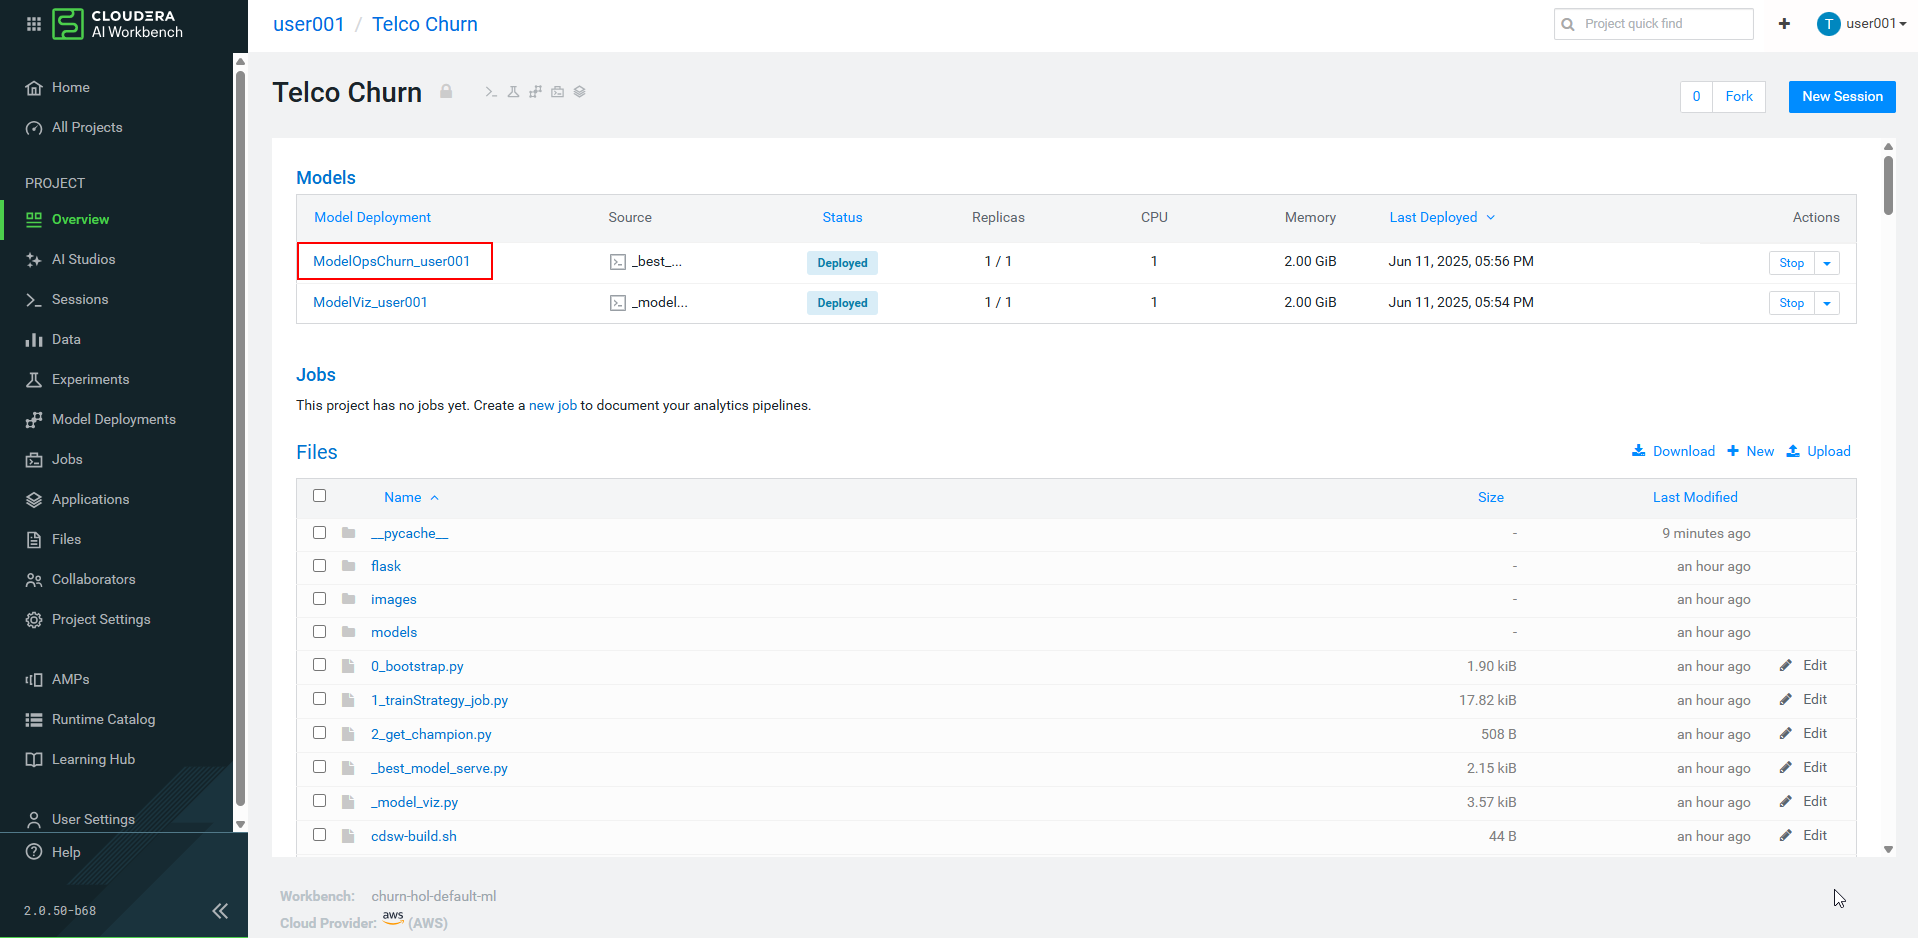
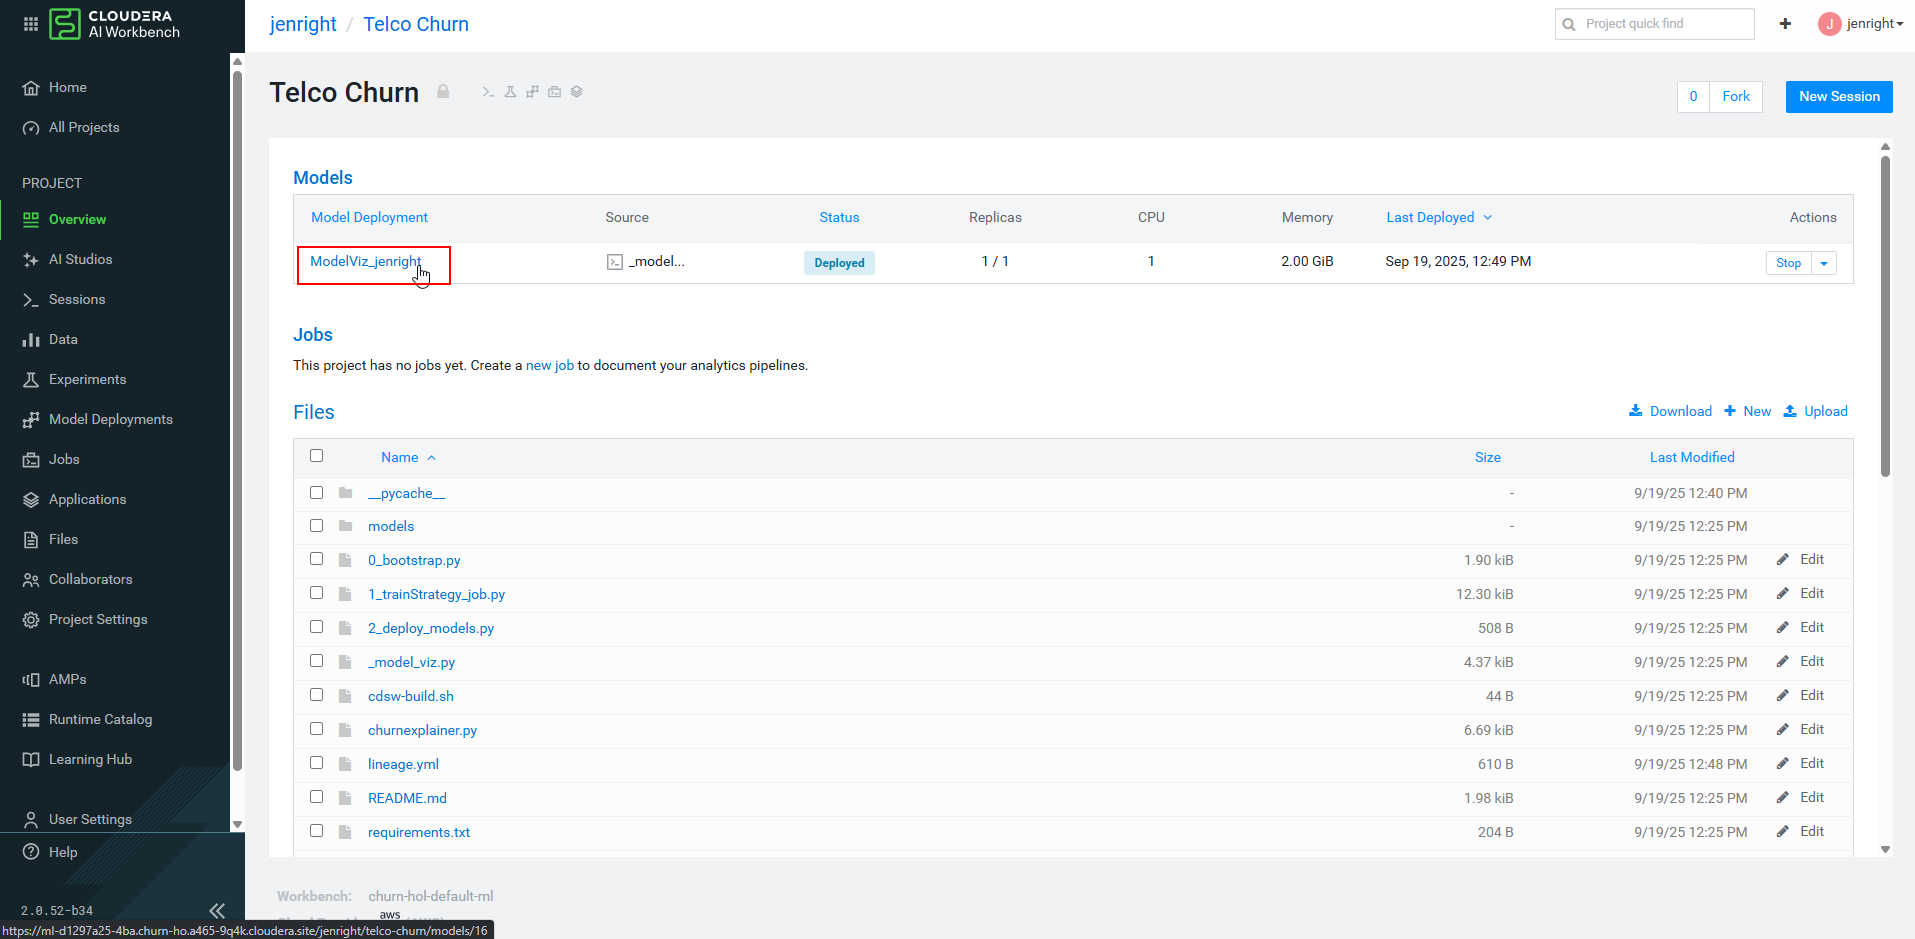
Update lab guide for new CAI model script (#18)
* Update lab4 content for new CAI model script
* Update lab5 for new CAI model
---------

diff --git a/content/labs/lab4-cai/README.md b/content/labs/lab4-cai/README.md
@@ -138,7 +138,7 @@ On this screen you will see the three runs of this experiment. Note the **precis
 
 ![Cloudera AI Experiement Details](cai_experiment_details.png)
 
-### Run Get Champion Script
+### Run the Deploy Model Script
 
 Let's go back to the session to run the last code. Since sessions run in Kubernetes containers, it's very easy to get back to where we were.
 
@@ -146,25 +146,25 @@ Click on the **Sessions** button from the left menu. The list of active sessions
 
 ![Cloudera AI Session List Details](cai_session_list.png)
 
-The third and last script/code to run is `2_get_champion.py`. This Python code takes the hyper parameter of the execution of the Experiment with the best precision and deploys two Models as REST APIs, one to be integrated in Data Visualization and another for single calls to the model.
+The third and last script/code to run is `2_deploy_models.py`. This Python code takes the hyper parameter of the execution of the Experiment with the best precision and deploys a model as a REST API. This model can be integrated in Data Visualization.
 
 Select (just one click) the file in the bar located on the left side of the interface, this will make the code appear in the editor. Once the file is selected, click on the :material-play-box: button to run the code.
 
-![Cloudera AI Run Get Champion Script](cai_run_champion_script.png)
+![Cloudera AI Run Deploy Model Script](cai_run_champion_script.png)
 
 After a few seconds, you will see the message `Deploying ModelViz....` repeated several times, and the bottom command bar will be red.
 
-![Cloudera AI Get Champion Script Deploy Model](cai_champion_script_deploying.png)
+![Cloudera AI Deploy Model Script Running](cai_champion_script_deploying.png)
 
 After about 2 minutes, the last message should be _Model is deployed_, and the bar will be green. This means that the Deployment of the two Models is complete.
 
 Click on the **Project** button, located in the upper right bar of the session to return to the home page of the project.
 
-![Cloudera AI Get Champion Script Deploy Success](cai_champion_script_deploy_success.png)
+![Cloudera AI Deploy Model Script Success](cai_champion_script_deploy_success.png)
 
-### Test Deployed Models
+### Test Deployed Model
 
-Once on the home page of the project, you will see the two Models displayed. Click on the one that starts with **ModelOpsChurn**.
+Once on the home page of the project, you will the deployed Model displayed. Click on the model that starts with **ModelViz**.
 
 ![Cloudera AI Deployed Models](cai_project_deployed_models.png)
 
@@ -178,6 +178,7 @@ What you see in the **Result** field is the response from the model in JSON form
 
 If you wish, you can change some of the parameters of the **Input** field (for example, change some values from `No` to `Yes`), and call the model again, and observe the value of the attribute probability of the response to see if there were any changes.
 
+TODO:
 ![Cloudera AI Churn Model Test](cai_model_churn_test.png)
 
 **End of Lab 4**
